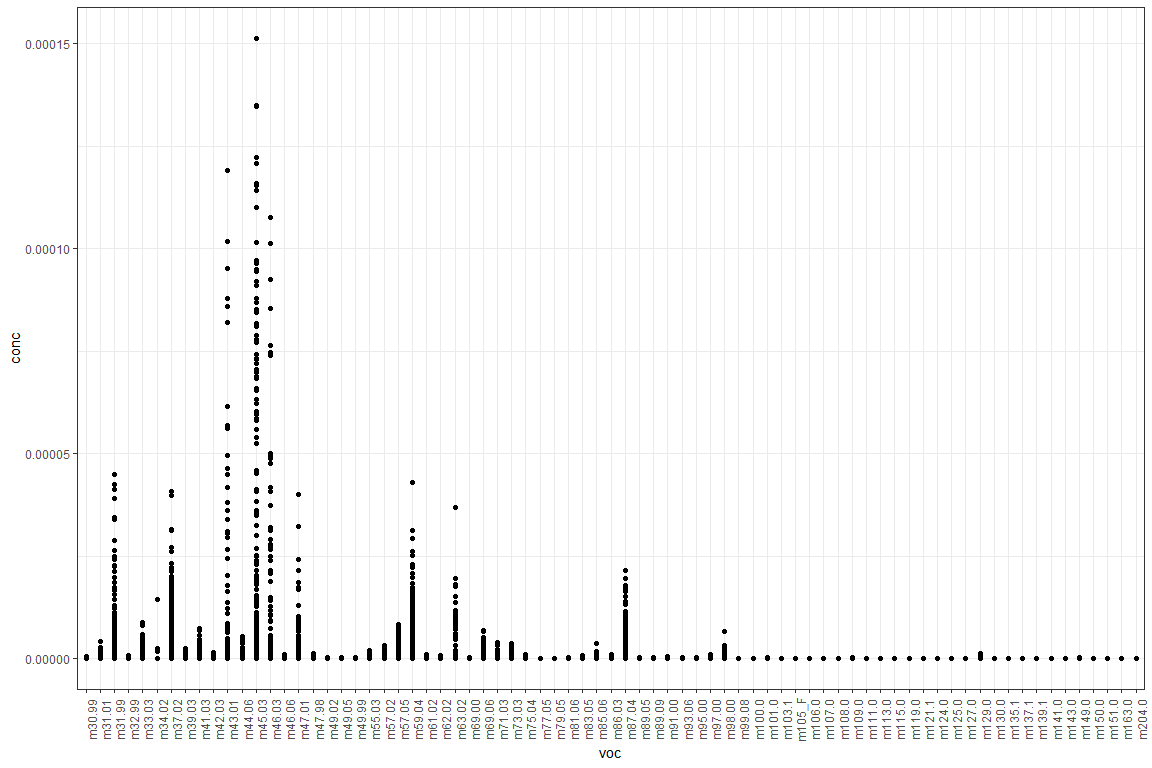
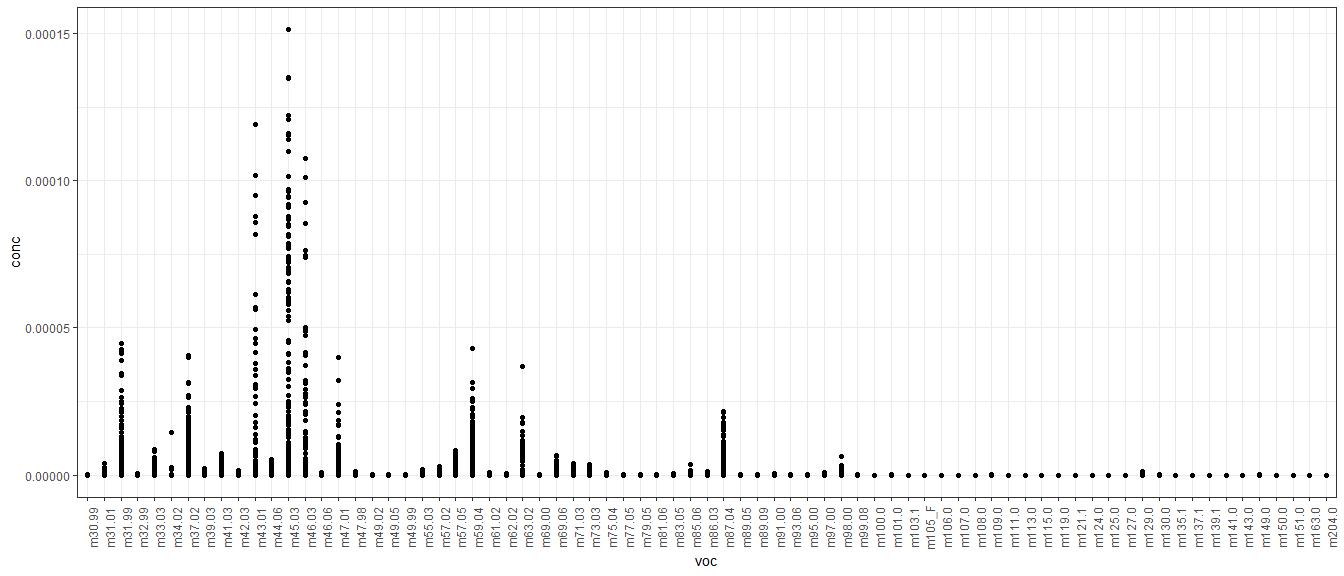
VOC data vis

diff --git a/Rmds/VOC_clustering.md b/Rmds/VOC_clustering.md
@@ -16,7 +16,18 @@ With a quick check, we see that the numbers are very small and that
 different compounds have very different ranges as well.  
 ![](VOC_clustering_files/figure-gfm/unnamed-chunk-1-1.png)<!-- -->
 
+We also know that there are a significant number of zeros in the data,
+and if we visualize it without the zeroes, it can give us some insight
+regarding the abundant compounds which we are actually interested in.
+
 ![](VOC_clustering_files/figure-gfm/unnamed-chunk-2-1.png)<!-- -->
+
+We might want to get a hint of what the data looks like for males and
+females and how these might differ by family.
+
+![](VOC_clustering_files/figure-gfm/unnamed-chunk-3-1.png)<!-- -->
+
+![](VOC_clustering_files/figure-gfm/facetPlot-1.png)<!-- -->
 
 I am thinking that we can log transform the data, and add a really small
 value, a couple of orders of magnitude from the minimum value in the
